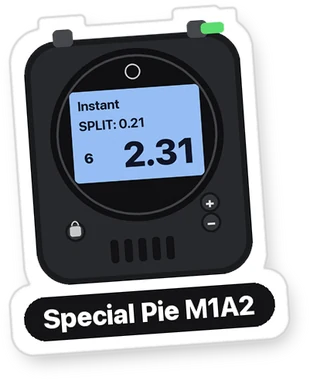
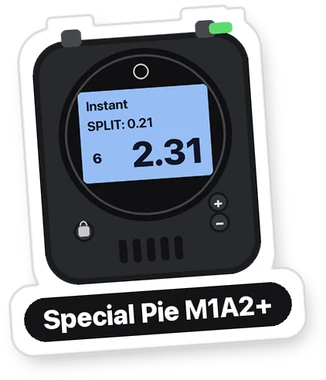
Home: link each timer sticker to its purchase page; Special Pie sticker now reads M1A2+

diff --git a/index.html b/index.html
@@ -95,6 +95,8 @@
   .timers p { margin: 0 0 14px; color: var(--muted); font-size: 0.9rem; }
   .timers ul { list-style: none; margin: 0; padding: 0; display: flex; flex-wrap: wrap; justify-content: center; align-items: center; gap: 6px 14px; }
   .timers li { line-height: 0; }
+  .timers li a { display: block; border-radius: 12px; transition: transform .15s ease; }
+  .timers li a:hover, .timers li a:focus-visible { transform: translateY(-3px); }
   .timers li img { height: 150px; width: auto; display: block; }
 
   /* Features */
@@ -196,12 +198,12 @@
   <div class="wrap">
     <p>Works with the Bluetooth shot timers you already own</p>
     <ul>
-      <li><img src="images/timers/protimer-bt.webp" alt="Competition Electronics ProTimer BT" width="247" height="380" loading="lazy"></li>
-      <li><img src="images/timers/amg-commander.webp" alt="AMG Commander" width="251" height="380" loading="lazy"></li>
-      <li><img src="images/timers/sg-timer-2.webp" alt="SG Timer, Timer 2 &amp; GO" width="212" height="380" loading="lazy"></li>
-      <li><img src="images/timers/daa-edge.webp" alt="Double Alpha Academy Edge" width="232" height="380" loading="lazy"></li>
-      <li><img src="images/timers/kestrel-kst1000.webp" alt="Kestrel KST1000" width="251" height="380" loading="lazy"></li>
-      <li><img src="images/timers/special-pie-m1a2.webp" alt="Special Pie M1A2+" width="310" height="380" loading="lazy"></li>
+      <li><a href="https://competitionelectronics.com/products/protimer-bt" target="_blank" rel="noopener noreferrer"><img src="images/timers/protimer-bt.webp" alt="Competition Electronics ProTimer BT" width="247" height="380" loading="lazy"></a></li>
+      <li><a href="https://www.amg-lab.com/collections/all/products/commander-silicone-skin-pre-orders" target="_blank" rel="noopener noreferrer"><img src="images/timers/amg-commander.webp" alt="AMG Commander" width="251" height="380" loading="lazy"></a></li>
+      <li><a href="https://timer.shooters.global/product/sg-timer-2/" target="_blank" rel="noopener noreferrer"><img src="images/timers/sg-timer-2.webp" alt="SG Timer, Timer 2 &amp; GO" width="212" height="380" loading="lazy"></a></li>
+      <li><a href="https://www.doublealpha.biz/double-alpha-edge-shot-timer" target="_blank" rel="noopener noreferrer"><img src="images/timers/daa-edge.webp" alt="Double Alpha Academy Edge" width="232" height="380" loading="lazy"></a></li>
+      <li><a href="https://kestrelballistics.com/buy-shot-timer" target="_blank" rel="noopener noreferrer"><img src="images/timers/kestrel-kst1000.webp" alt="Kestrel KST1000" width="251" height="380" loading="lazy"></a></li>
+      <li><a href="https://www.specialpiestore.com/Professional-Shot-Timer-for-Shooting-Training-and-Competition-pd576902558.html" target="_blank" rel="noopener noreferrer"><img src="images/timers/special-pie-m1a2.webp" alt="Special Pie M1A2+" width="326" height="380" loading="lazy"></a></li>
     </ul>
   </div>
 </section>
